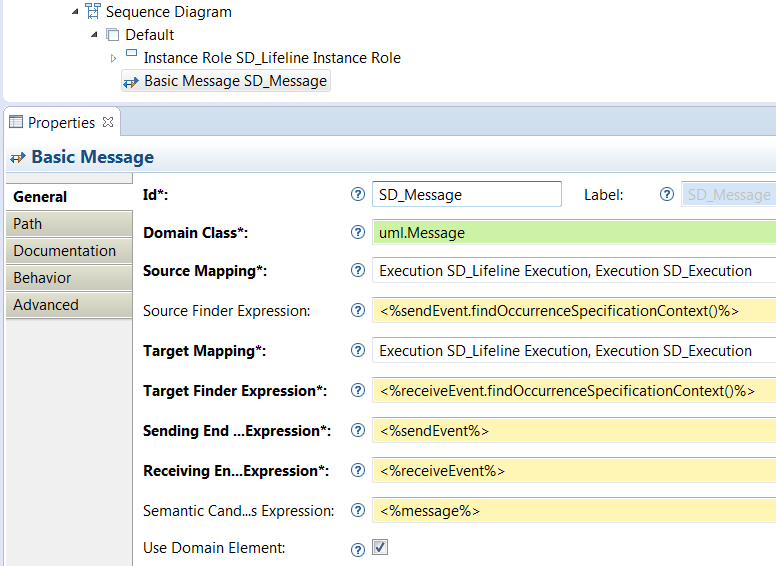
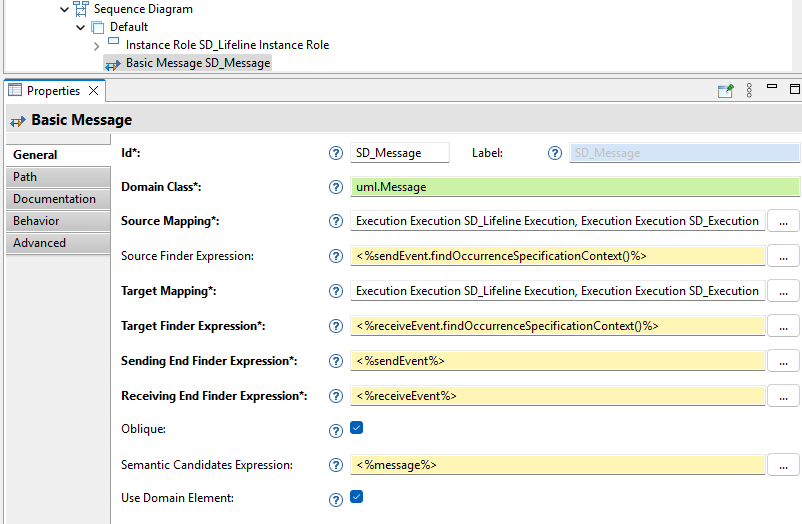
[587] Add doc for oblique messages
Bug: https://github.com/eclipse-sirius/sirius-desktop/issues/587

diff --git a/plugins/org.eclipse.sirius.doc/doc/user/sequences/Sequence Diagrams.html b/plugins/org.eclipse.sirius.doc/doc/user/sequences/Sequence Diagrams.html
@@ -250,9 +250,11 @@
 		<p>Note that not all sequence diagram modelers will allow for the creation of &#8220;raw&#8221; executions like these, which are not connected to messages. This all depends on the semantics of the underlying models and of the diagram&#8217;s configuration.</p>
 		<h3 id="BasicMessages">Basic Messages</h3>
 		<p>Basic messages represent some form of communication between lifelines. They are represented by horizontal arrows between lifelines (or executions on lifelines).</p>
-		<p>The example below shows three lifelines and three messages. Note that the last one, 
-			<code>m3</code>, is a 
-			<em>reflective</em> message which is received by the same lifeline which sent it. 
+		<p>The example below shows three lifelines and four messages. Note that 
+			<code>m3</code> is a 
+			<em>reflective</em> message which is received by the same lifeline which sent it, and 
+			<code>oblique_4</code> is an 
+			<em>oblique</em> message which has a target coordinate with an y-value less than or equal to its source coordinate.. 
 		</p> 
 		<img border="0" src="images/basic_messages.png"/>
 		<p>Note that not all sequence diagram modelers will allow for the creation of basic message like these, which are not connected the beginning or end of an execution. This all depends on the semantics of the underlying models and of the diagram&#8217;s configuration.</p>

diff --git a/plugins/org.eclipse.sirius.doc/doc/specifier/sequences/Sequence Diagrams.html b/plugins/org.eclipse.sirius.doc/doc/specifier/sequences/Sequence Diagrams.html
@@ -506,6 +506,9 @@
 			</li>
 		</ul> 
 		<img border="0" src="images/basic_message_mapping_visual3.png"/>
+		<p>The properties 
+			<em>Oblique</em> is specific to Basic Messages. It allows the message to be displayed as oblique with source.y &lt; target.y.
+		</p>
 		<h4 id="LostandFoundMessages">Lost and Found Messages</h4>
 		<p>Standard node mappings, direct children of a layer of the current sequence diagram description, can be used to represent the unknown message end. Lost and found messages should be created using a generic tool.</p>
 		<h3 id="InteractionContainer">Interaction Container</h3>
